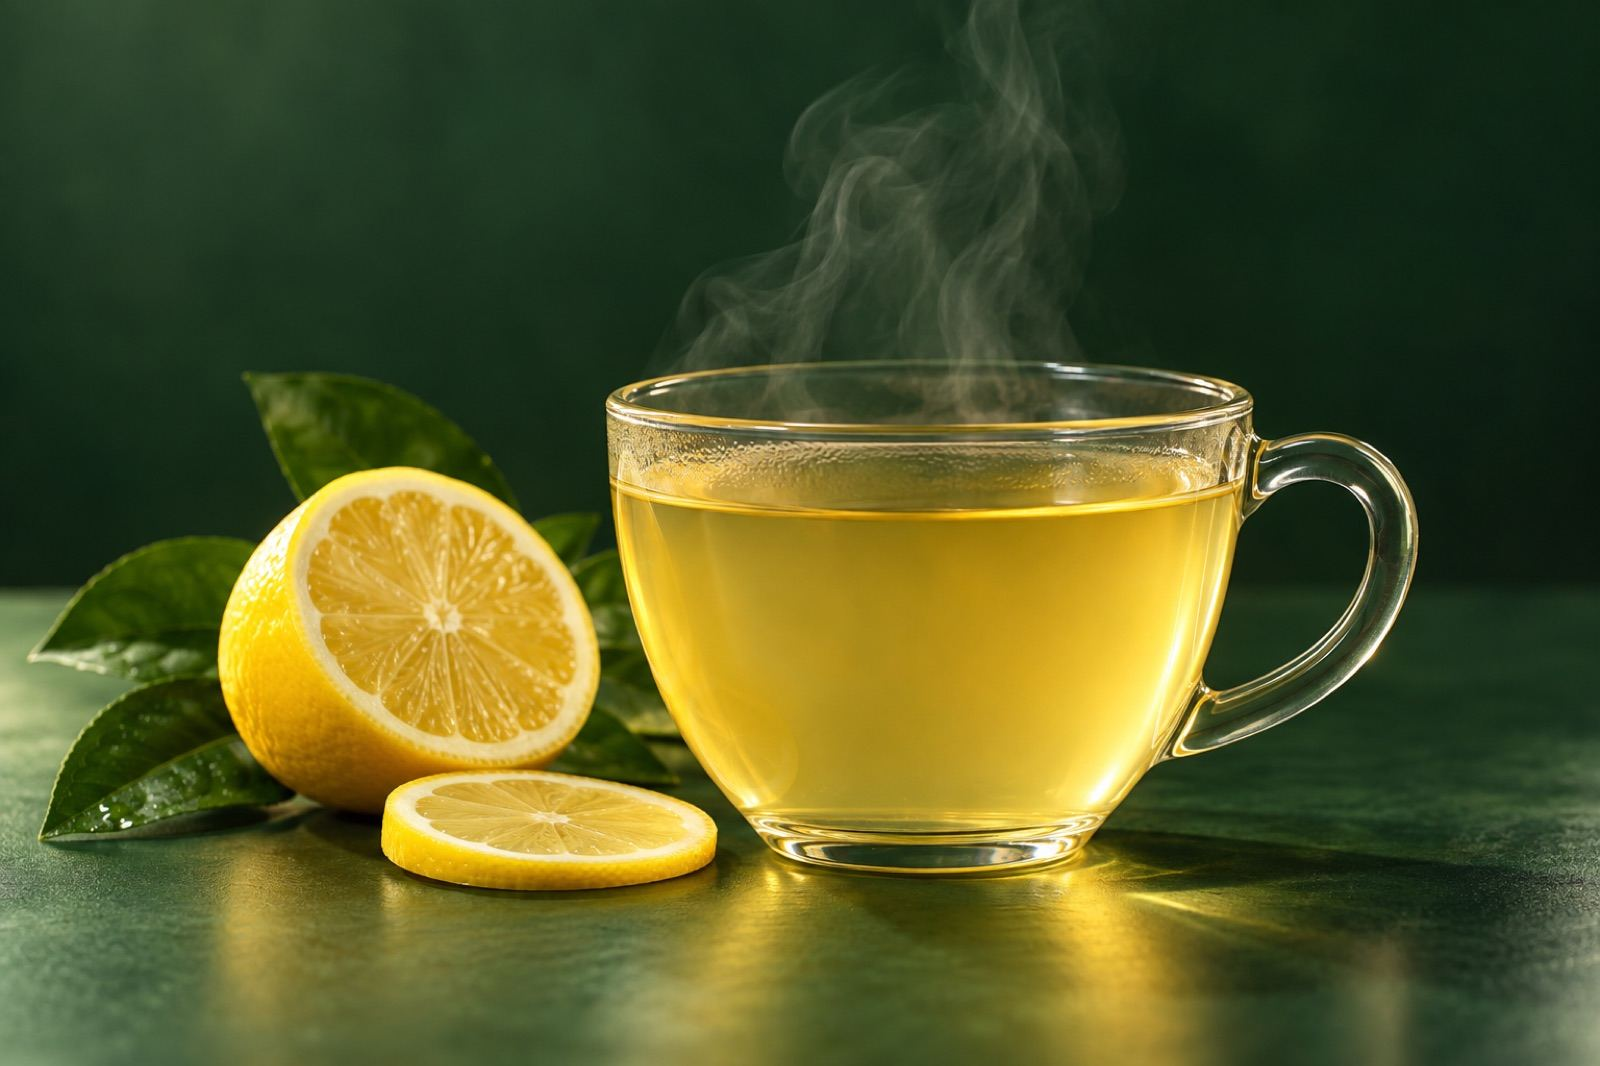
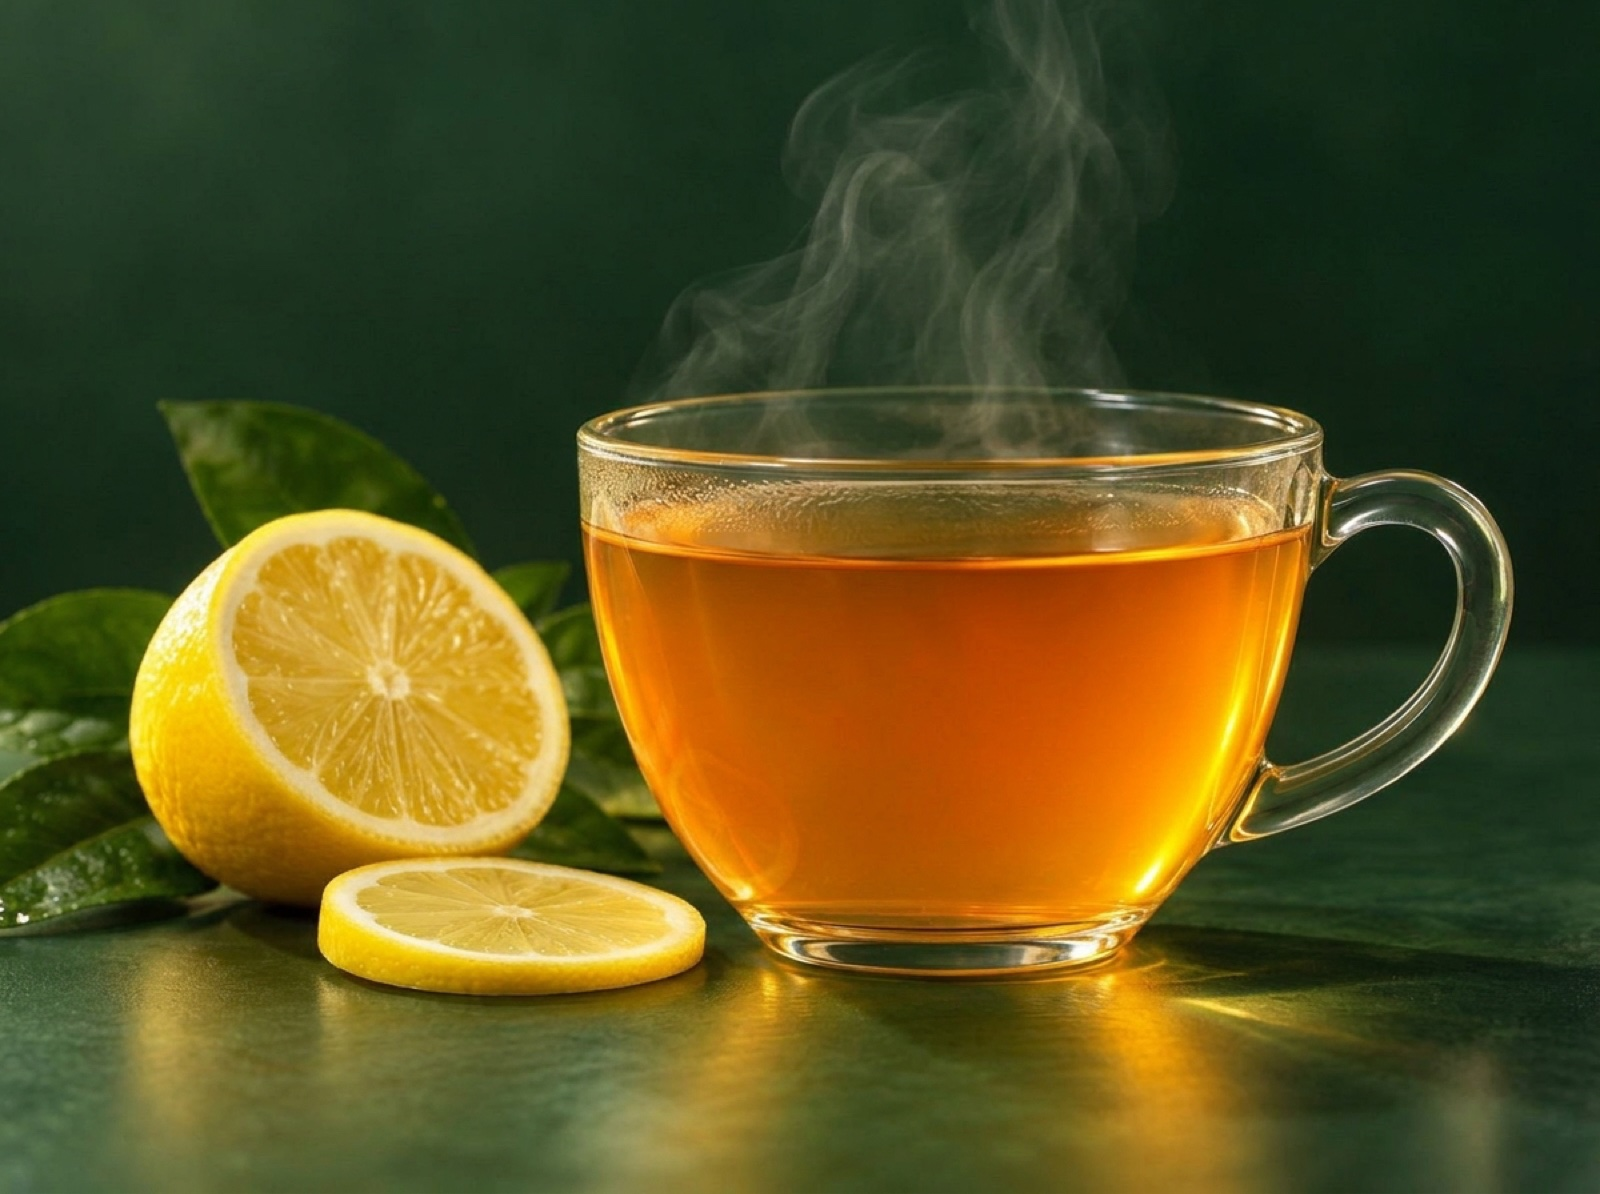
v6: real drink colours, drop Shiv Group

diff --git a/straightforward-6/about.html b/straightforward-6/about.html
@@ -4,7 +4,7 @@
 <meta charset="utf-8">
 <meta name="viewport" content="width=device-width, initial-scale=1">
 <title>About | StraightFrwd</title>
-<meta name="description" content="Why we started StraightFrwd. Part of Shiv Group, 40+ years in Indian industry and 20+ years with soya.">
+<meta name="description" content="Why we started StraightFrwd, and what goes into every sachet.">
 <link rel="icon" href="assets/favicon.svg" type="image/svg+xml">
 <link rel="icon" href="assets/favicon-32.png" type="image/png" sizes="32x32">
 <link rel="shortcut icon" href="assets/favicon.ico">
@@ -12,7 +12,7 @@
 <link rel="preconnect" href="https://fonts.googleapis.com">
 <link rel="preconnect" href="https://fonts.gstatic.com" crossorigin>
 <link href="https://fonts.googleapis.com/css2?family=Fraunces:opsz,wght,SOFT@9..144,500..800,100&family=DM+Sans:opsz,wght@9..40,400..700&family=Caveat:wght@600;700&display=swap" rel="stylesheet">
-<link rel="stylesheet" href="assets/style.css?v=1795758070">
+<link rel="stylesheet" href="assets/style.css?v=1795763122">
 <script>document.documentElement.classList.add('js')</script>
 <script src="assets/logo.js"></script>
 </head>
@@ -151,12 +151,11 @@
 <svg hidden class="wave " viewBox="0 0 1440 60" preserveAspectRatio="none" aria-hidden="true"><path d="M0 30c120-26 240-26 360 0s240 26 360 0 240-26 360 0 240 26 360 0v30H0z" fill="var(--brown)"/></svg>
 <section hidden class="how ab-roots">
   <div class="wrap roots">
-    <div class="roots-big"><span class="big-num">40+</span><span>years of Shiv Group in Indian industry</span></div>
-    <div class="roots-big"><span class="big-num">20+</span><span>years working with soya</span></div>
+        <div class="roots-big"><span class="big-num">20+</span><span>years working with soya</span></div>
     <div class="roots-copy">
       <p class="hand kicker">where we come from</p>
       <h2>A new name, with decades behind it.</h2>
-      <p>StraightFrwd is part of Shiv Group. For over forty years Shiv Group has been a name in Indian industry. For more than two decades the work has centred on one ingredient, soya, what the team here calls the miracle seed.</p>
+      <p>For more than two decades our work has centred on one ingredient, soya, what the team here calls the miracle seed.</p>
       <p>StraightFrwd is the first time we have brought that expertise directly to you and your family.</p>
     </div>
   </div>
@@ -187,12 +186,12 @@
 
 <footer class="foot" data-chrome="footer">
   <div class="wrap">
-    <p>StraightFrwd. Nutrition, Made Easy. Part of Shiv Group.</p>
+    <p>StraightFrwd. Nutrition, Made Easy.</p>
     <p><a href="tel:+919672227666">+91 96722 27666</a> · <a href="https://wa.me/919057119000" target="_blank" rel="noopener">WhatsApp 90571 19000</a> · <a href="mailto:care@straightfrwd.com">care@straightfrwd.com</a> · <a href="privacy.html">Privacy</a></p>
   </div>
 </footer>
 
-<script src="assets/chrome.js?v=1795758070"></script>
-<script src="assets/main.js?v=1795758070"></script>
+<script src="assets/chrome.js?v=1795763122"></script>
+<script src="assets/main.js?v=1795763122"></script>
 </body>
 </html>

diff --git a/straightforward-6/index.html b/straightforward-6/index.html
@@ -12,7 +12,7 @@
 <link rel="preconnect" href="https://fonts.googleapis.com">
 <link rel="preconnect" href="https://fonts.gstatic.com" crossorigin>
 <link href="https://fonts.googleapis.com/css2?family=Fraunces:opsz,wght,SOFT@9..144,500..800,100&family=DM+Sans:opsz,wght@9..40,400..700&family=Caveat:wght@600;700&display=swap" rel="stylesheet">
-<link rel="stylesheet" href="assets/style.css?v=1795758070">
+<link rel="stylesheet" href="assets/style.css?v=1795763122">
 <script>document.documentElement.classList.add('js')</script>
 <script src="assets/logo.js"></script>
 </head>
@@ -317,7 +317,7 @@
     <svg class="ill c2 c-green" aria-hidden="true"><use href="#i-lemon"/></svg>
     <svg class="ill c3 c-brown" aria-hidden="true"><use href="#i-kahwa"/></svg>
     <svg class="ill c4 c-brown" aria-hidden="true"><use href="#i-mango"/></svg>
-    <p class="hand kicker">from the Shiv Group family, 40+ years in Indian industry</p>
+    <p class="hand kicker">plant protein, made simple</p>
     <h2>Nutrition, <span class="ul">made easy.<svg aria-hidden="true"><use href="#d-under"/></svg></span></h2>
     <p class="sub">Seven flavours. One sachet at a time.</p>
     <a class="btn btn-lg" href="products.html">See Our Products</a>
@@ -327,12 +327,12 @@
 
 <footer class="foot" data-chrome="footer">
   <div class="wrap">
-    <p>StraightFrwd. Nutrition, Made Easy. Part of Shiv Group.</p>
+    <p>StraightFrwd. Nutrition, Made Easy.</p>
     <p><a href="tel:+919672227666">+91 96722 27666</a> · <a href="https://wa.me/919057119000" target="_blank" rel="noopener">WhatsApp 90571 19000</a> · <a href="mailto:care@straightfrwd.com">care@straightfrwd.com</a> · <a href="privacy.html">Privacy</a></p>
   </div>
 </footer>
 
-<script src="assets/chrome.js?v=1795758070"></script>
-<script src="assets/main.js?v=1795758070"></script>
+<script src="assets/chrome.js?v=1795763122"></script>
+<script src="assets/main.js?v=1795763122"></script>
 </body>
 </html>

diff --git a/straightforward-6/privacy.html b/straightforward-6/privacy.html
@@ -12,7 +12,7 @@
 <link rel="preconnect" href="https://fonts.googleapis.com">
 <link rel="preconnect" href="https://fonts.gstatic.com" crossorigin>
 <link href="https://fonts.googleapis.com/css2?family=Fraunces:opsz,wght,SOFT@9..144,500..800,100&family=DM+Sans:opsz,wght@9..40,400..700&family=Caveat:wght@600;700&display=swap" rel="stylesheet">
-<link rel="stylesheet" href="assets/style.css?v=1795758070">
+<link rel="stylesheet" href="assets/style.css?v=1795763122">
 <script>document.documentElement.classList.add('js')</script>
 <script src="assets/logo.js"></script>
 </head>
@@ -116,7 +116,7 @@
 <section class="policy">
   <div class="wrap policy-in">
     <section class="pol-sec"><h2>Who we are</h2>
-<p>This site belongs to StraightFrwd, a brand of Shiv Protein Private Limited (StraightFrwd), part of Shiv Group. When this page says "we", it means us.</p>
+<p>This site belongs to StraightFrwd, a brand of Shiv Protein Private Limited. When this page says "we", it means us.</p>
     </section>
     <section class="pol-sec"><h2>What we collect</h2>
 <p>Only what you type into our contact form: your name, phone number, email, the topic, the product you pick and your message.</p>
@@ -157,12 +157,12 @@
 
 <footer class="foot" data-chrome="footer">
   <div class="wrap">
-    <p>StraightFrwd. Nutrition, Made Easy. Part of Shiv Group.</p>
+    <p>StraightFrwd. Nutrition, Made Easy.</p>
     <p><a href="tel:+919672227666">+91 96722 27666</a> · <a href="https://wa.me/919057119000" target="_blank" rel="noopener">WhatsApp 90571 19000</a> · <a href="mailto:care@straightfrwd.com">care@straightfrwd.com</a> · <a href="privacy.html">Privacy</a></p>
   </div>
 </footer>
 
-<script src="assets/chrome.js?v=1795758070"></script>
-<script src="assets/main.js?v=1795758070"></script>
+<script src="assets/chrome.js?v=1795763122"></script>
+<script src="assets/main.js?v=1795763122"></script>
 </body>
 </html>

diff --git a/straightforward-6/contact.html b/straightforward-6/contact.html
@@ -12,7 +12,7 @@
 <link rel="preconnect" href="https://fonts.googleapis.com">
 <link rel="preconnect" href="https://fonts.gstatic.com" crossorigin>
 <link href="https://fonts.googleapis.com/css2?family=Fraunces:opsz,wght,SOFT@9..144,500..800,100&family=DM+Sans:opsz,wght@9..40,400..700&family=Caveat:wght@600;700&display=swap" rel="stylesheet">
-<link rel="stylesheet" href="assets/style.css?v=1795758070">
+<link rel="stylesheet" href="assets/style.css?v=1795763122">
 <script>document.documentElement.classList.add('js')</script>
 <script src="assets/logo.js"></script>
 </head>
@@ -150,12 +150,12 @@
 
 <footer class="foot" data-chrome="footer">
   <div class="wrap">
-    <p>StraightFrwd. Nutrition, Made Easy. Part of Shiv Group.</p>
+    <p>StraightFrwd. Nutrition, Made Easy.</p>
     <p><a href="tel:+919672227666">+91 96722 27666</a> · <a href="https://wa.me/919057119000" target="_blank" rel="noopener">WhatsApp 90571 19000</a> · <a href="mailto:care@straightfrwd.com">care@straightfrwd.com</a> · <a href="privacy.html">Privacy</a></p>
   </div>
 </footer>
 
-<script src="assets/chrome.js?v=1795758070"></script>
-<script src="assets/main.js?v=1795758070"></script>
+<script src="assets/chrome.js?v=1795763122"></script>
+<script src="assets/main.js?v=1795763122"></script>
 </body>
 </html>

diff --git a/straightforward-6/product.html b/straightforward-6/product.html
@@ -12,7 +12,7 @@
 <link rel="preconnect" href="https://fonts.googleapis.com">
 <link rel="preconnect" href="https://fonts.gstatic.com" crossorigin>
 <link href="https://fonts.googleapis.com/css2?family=Fraunces:opsz,wght,SOFT@9..144,500..800,100&family=DM+Sans:opsz,wght@9..40,400..700&family=Caveat:wght@600;700&display=swap" rel="stylesheet">
-<link rel="stylesheet" href="assets/style.css?v=1795758070">
+<link rel="stylesheet" href="assets/style.css?v=1795763122">
 <script>document.documentElement.classList.add('js')</script>
 <script src="assets/logo.js"></script>
 </head>
@@ -117,12 +117,12 @@
 
 <footer class="foot" data-chrome="footer">
   <div class="wrap">
-    <p>StraightFrwd. Nutrition, Made Easy. Part of Shiv Group.</p>
+    <p>StraightFrwd. Nutrition, Made Easy.</p>
     <p><a href="tel:+919672227666">+91 96722 27666</a> · <a href="https://wa.me/919057119000" target="_blank" rel="noopener">WhatsApp 90571 19000</a> · <a href="mailto:care@straightfrwd.com">care@straightfrwd.com</a> · <a href="privacy.html">Privacy</a></p>
   </div>
 </footer>
 
-<script src="assets/chrome.js?v=1795758070"></script>
-<script src="assets/main.js?v=1795758070"></script>
+<script src="assets/chrome.js?v=1795763122"></script>
+<script src="assets/main.js?v=1795763122"></script>
 </body>
 </html>

diff --git a/straightforward-6/products.html b/straightforward-6/products.html
@@ -12,7 +12,7 @@
 <link rel="preconnect" href="https://fonts.googleapis.com">
 <link rel="preconnect" href="https://fonts.gstatic.com" crossorigin>
 <link href="https://fonts.googleapis.com/css2?family=Fraunces:opsz,wght,SOFT@9..144,500..800,100&family=DM+Sans:opsz,wght@9..40,400..700&family=Caveat:wght@600;700&display=swap" rel="stylesheet">
-<link rel="stylesheet" href="assets/style.css?v=1795758070">
+<link rel="stylesheet" href="assets/style.css?v=1795763122">
 <script>document.documentElement.classList.add('js')</script>
 <script src="assets/logo.js"></script>
 </head>
@@ -184,12 +184,12 @@
 
 <footer class="foot" data-chrome="footer">
   <div class="wrap">
-    <p>StraightFrwd. Nutrition, Made Easy. Part of Shiv Group.</p>
+    <p>StraightFrwd. Nutrition, Made Easy.</p>
     <p><a href="tel:+919672227666">+91 96722 27666</a> · <a href="https://wa.me/919057119000" target="_blank" rel="noopener">WhatsApp 90571 19000</a> · <a href="mailto:care@straightfrwd.com">care@straightfrwd.com</a> · <a href="privacy.html">Privacy</a></p>
   </div>
 </footer>
 
-<script src="assets/chrome.js?v=1795758070"></script>
-<script src="assets/main.js?v=1795758070"></script>
+<script src="assets/chrome.js?v=1795763122"></script>
+<script src="assets/main.js?v=1795763122"></script>
 </body>
 </html>

diff --git a/straightforward-6/assets/chrome.js b/straightforward-6/assets/chrome.js
@@ -15,7 +15,7 @@
   var P = [['choc','Chocolate'],['mango','Mango'],['kulfi','Kulfi'],['kahwa','Kashmiri Kahwa'],['ginger','Ginger'],['tulsi','Tulsi'],['lemon','Lemon']];
   var footer =
     '<div class="wrap foot-grid">'+
-      '<div><span class="logo logo-foot" data-logo></span><p>Nutrition, Made Easy.<br>Part of Shiv Group.</p></div>'+
+      '<div><span class="logo logo-foot" data-logo></span><p>Nutrition, Made Easy.</p></div>'+
       '<div><h4>Products</h4>'+P.map(function(p){ return '<a href="product.html#'+p[0]+'">'+p[1]+'</a>'; }).join('')+'</div>'+
       '<div><h4>Explore</h4><a href="products.html">All products</a><a href="about.html">About us</a><a href="contact.html">Contact</a><a href="contact.html#buy">Where to buy</a><a href="privacy.html"'+(page==='privacy.html'?' aria-current="page"':'')+'>Privacy</a></div>'+
       '<div><h4>Talk to us</h4><a href="tel:+919672227666">+91 96722 27666</a><a href="https://wa.me/919057119000" target="_blank" rel="noopener">WhatsApp 90571 19000</a><a href="mailto:care@straightfrwd.com">care@straightfrwd.com</a></div>'+
